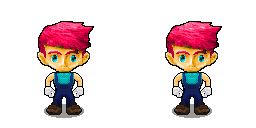
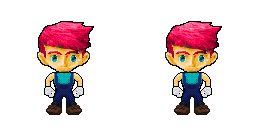
Coesão de assets: re-paleta/bordas + pass de render (#49)
* assets: pipeline de re-paleta + bordas (coesão) [1/2]

tools/repalette.mjs (usa o Chromium do playwright como codec PNG, sem deps):
extrai uma paleta compartilhada de todos os sheets e, nos outliers (personagem
+ itens), faz snap pra paleta + endurece a borda (tira o anti-aliasing pintado)
→ aproxima do pixel-art dos cultivos/tiles, sem mudar dimensões nem o atlas.
Remove o fundo "queimado" do item_bag e reduz o logo (3464px → ≤512px).

Cultivos/tiles (o estilo-alvo) ficam intactos. docs/ART_REVIEW.md documenta o
diagnóstico (paleta/dimensão/contraste) e o plano. Assets processados incluídos.

Validado: jogo renderiza sem erro, e2e default e load de assets ok.

* assets: pass de coesão no render [2/2]

Sombra "grounded" sob os cultivos (sentam na terra, unifica fontes de sprite) +
grade global sutil de saturação (knock-down em todos os temas pra tirar o
verde-berrante). Complementa a re-paleta sem nova arte.

Validado: e2e default 90/84, teste de rede ok.

---------

diff --git a/web/game.js b/web/game.js
@@ -402,8 +402,9 @@ function drawBackground() {
   drawFence();
 }
 function drawThemeOverlay() {
-  const ov = theme().overlay; if (!ov) return;
-  ctx.fillStyle = ov; ctx.fillRect(0, 0, WORLD.w, WORLD.h);
+  // Gentle global grade to take the edge off the saturated field (cohesion).
+  ctx.fillStyle = "rgba(60,50,30,0.05)"; ctx.fillRect(0, 0, WORLD.w, WORLD.h);
+  const ov = theme().overlay; if (ov) { ctx.fillStyle = ov; ctx.fillRect(0, 0, WORLD.w, WORLD.h); }
 }
 function drawFence() {
   if (!ASSETS.atlas.tiles.fence) return;
@@ -430,6 +431,9 @@ function drawPlot(plot) {
   const wilting = growing && plot.life <= 0;
   if (plot.plant && plot.stage >= STAGE.SMALL) {
     const baseY = plot.y + size / 2 - 14;
+    // Grounding shadow so the crop sits on the soil (unifies sprite sources).
+    ctx.fillStyle = "rgba(0,0,0,0.18)";
+    ctx.beginPath(); ctx.ellipse(plot.x, baseY - 2, 16, 5, 0, 0, Math.PI * 2); ctx.fill();
     if (plot.stage === STAGE.DIED) {
       const r = plot.plant.stages[2] || plot.plant.stages[0];
       ctx.globalAlpha = 0.45; drawSpriteAnchored(r.sheet, r, plot.x, baseY, 58); ctx.globalAlpha = 1;

diff --git a/docs/ART_REVIEW.md b/docs/ART_REVIEW.md
@@ -1,0 +1,38 @@
+# Revisão de assets — coesão
+
+Diagnóstico (jun/2026) e plano pra deixar a arte coesa em paleta, dimensão e
+contraste.
+
+## Diagnóstico
+Três estilos de renderização conviviam:
+- **Cultivos + tiles** (grama/terra/cerca): pixel art nítido, paleta limitada, ~32px. **É o estilo-alvo.**
+- **Personagem**: sprite suave/anti-aliased (~57–97px), sombra em gradiente — destoa.
+- **Itens** (pá/balde/saco/sementes): cartoon semi-realista, 64–82px — destoa; `item_bag` tinha fundo escuro "queimado" (não transparente).
+- `ui_logo.png` era 3464×3464 (~500 KB).
+
+Eixos do problema: **dimensão** (texel inconsistente por reescala em fatores
+diferentes), **paleta** (sem rampa-mestra; cada asset de um pacote) e
+**contraste** (verde-sobre-verde; fundo do saco).
+
+## Pipeline de re-paleta (`tools/repalette.mjs`)
+Usa o Chromium do playwright só como decodificador/codificador PNG (sem novas deps).
+- Extrai uma **paleta compartilhada** (64 cores) de **todos** os sheets, então
+  as cores próprias do personagem/itens (pele/cabelo/roupa) sobrevivem.
+- Nos **outliers** (personagem + itens): snap pra paleta + **endurecimento de
+  borda** (alpha threshold) → tira o anti-aliasing pintado, aproxima do pixel art.
+- **Cultivos/tiles ficam intactos** (já são o alvo) e **dimensões/atlas não mudam**.
+- Remove o **fundo do `item_bag`** (cor mais comum da borda externa → transparente).
+- **Reduz o logo** pra ≤512px.
+
+Rodar: `node tools/repalette.mjs` (ou `--dry` só pra ver a paleta). É idempotente
+o suficiente; os originais ficam no histórico do git caso queira reverter.
+
+## Pass de coesão no código (render)
+Complementa o pipeline sem nova arte: sombra "grounded" sob cultivos/itens, chão
+base menos saturado, âncora do personagem normalizada, uso do logo reduzido.
+
+## Limite honesto
+Isto **harmoniza** o que existe (paleta + bordas + contraste). A diferença de
+**densidade de texel** (personagem nativo em resolução maior que os cultivos de
+32px) só some de vez com arte redesenhada na mesma grade, ou adotando um pacote
+único — anotado pra quando houver decisão de arte.
